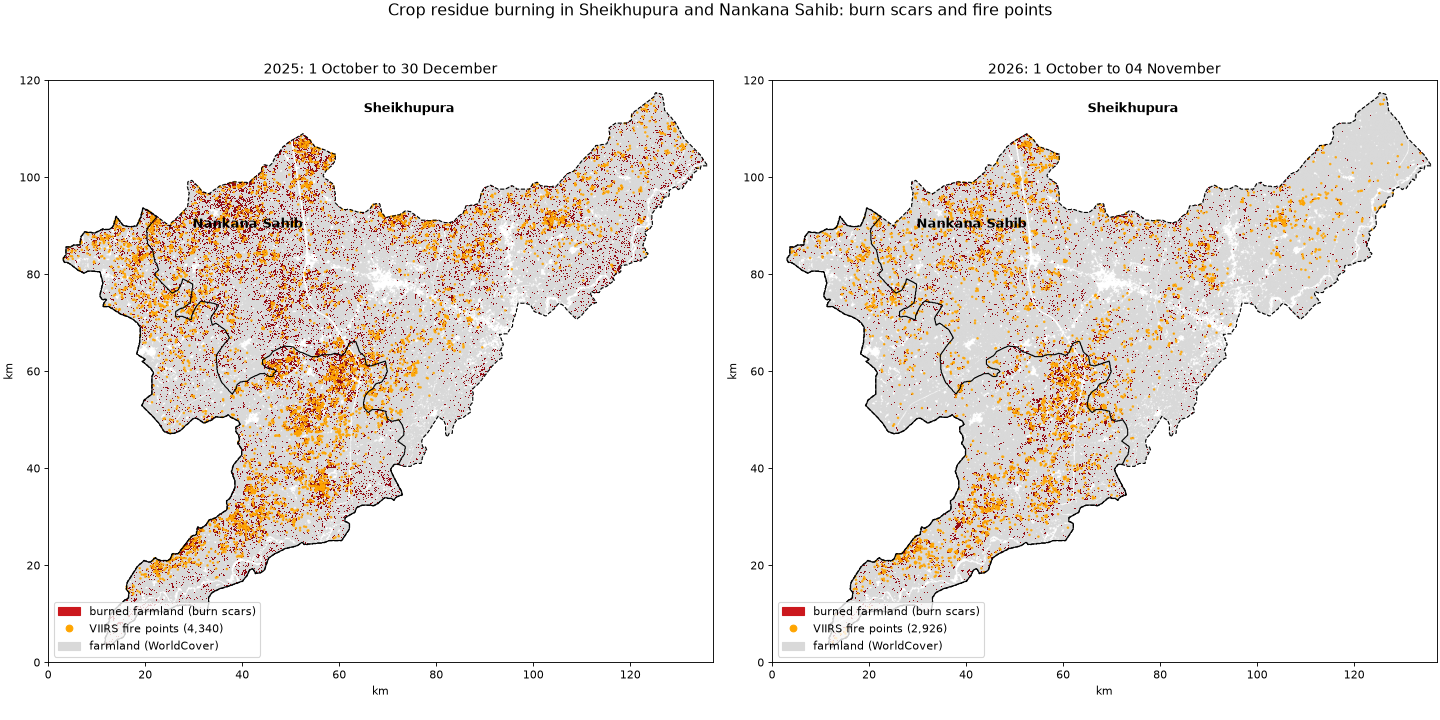
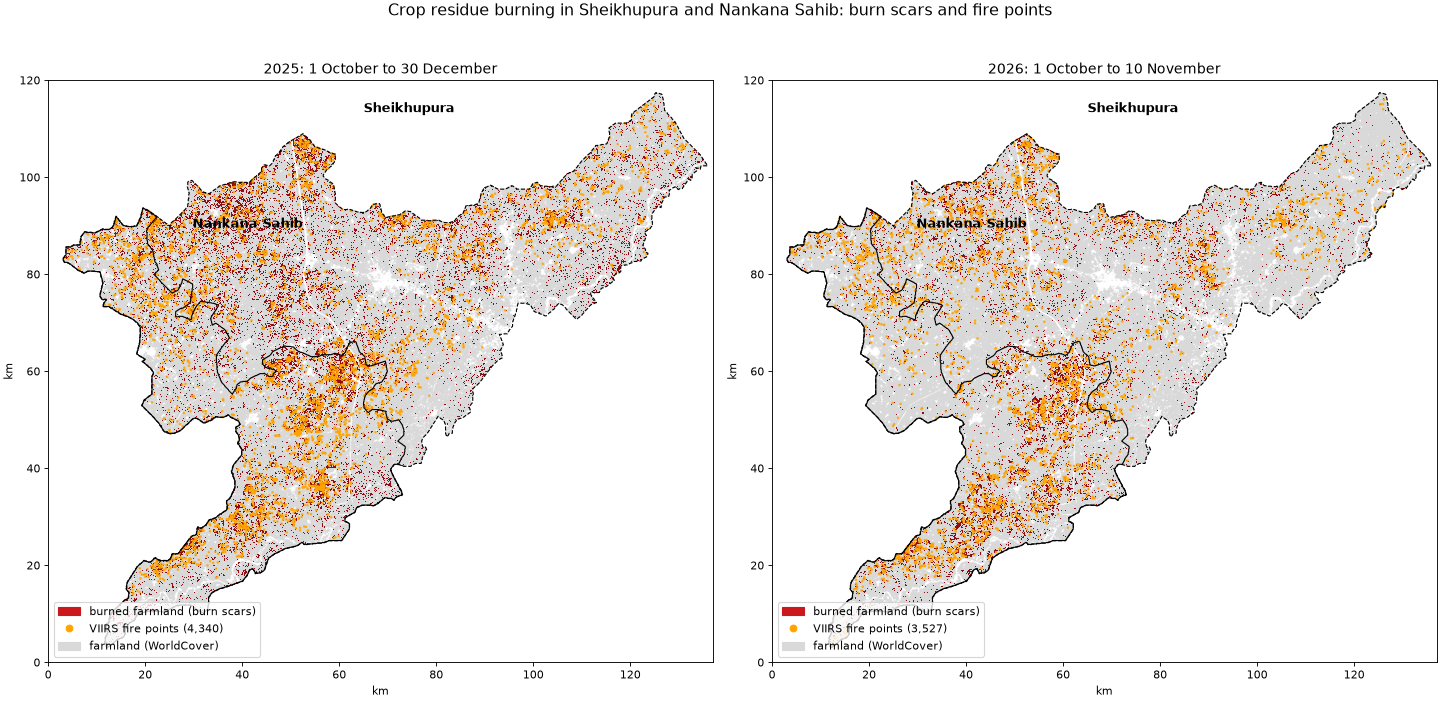
Update 2026 to 10 November; correct the 2 November smog figures and check them on the next clear image
- 2026 to 10 Nov: 10,107 ha of farmland burned, 16% less than 2025 by the same date; fire points peaked on 1 Nov.
- VIIRS missed 74% of burned farmland to 10 Nov (69% in 2025 by the same date).
- The 2 Nov "250 vs 4,388 ha" figures were for the whole image box, not the districts (70 vs 240 ha); corrected.
- On the clear 7 Nov image only 19% of the 2 Nov "possibly burned" area looked burned, so smog hid few burns.
- New CO record: 66.4 mmol/m2 over Nankana Sahib on 10 Nov, a quiet fire day.
- Sheikhupura's 2025 season share fixed (2.9%, not 3.0%).

diff --git a/README.md b/README.md
@@ -268,31 +268,39 @@ fire points missed. Then: does the smoke over a district rise and fall with its 
   burned pixel is spread evenly over the afternoons in its window. Sums over a week are close; single
   days are an estimate.
 
-| Farmland burned (burn scars) | 2025, 1-31 Oct | 2026, 1-31 Oct | 2026, 1 Oct-4 Nov | 2025, whole season |
-|---|---|---|---|---|
-| Sheikhupura | 3,897 ha (1.3%) | 3,207 ha (1.1%) | 3,383 ha (1.1%) | 8,783 ha (3.0%) |
-| Nankana Sahib | 2,288 ha (1.3%) | **3,415 ha (1.9%)** | 3,543 ha (2.0%) | 6,353 ha (3.6%) |
-| **Both districts** | **6,184 ha (1.3%)** | **6,622 ha (1.4%)** | **6,926 ha (1.5%)** | **15,137 ha (3.2%)** |
-| VIIRS fire points, both districts | 2,258 | 2,231 | 2,926 | 4,340 |
-| Burned farmland with a fire point on it | 1,826 of 6,134 ha | 1,780 of 6,606 ha | 1,861 of 6,910 ha | 4,013 of 15,086 ha |
-| **Missed by VIIRS** | **70%** (Sheikhupura 71%, Nankana Sahib 69%) | **73%** (75%, 72%) | **73%** (75%, 72%) | **73%** (78%, 67%) |
+| Farmland burned (burn scars) | 2025, 1-31 Oct | 2026, 1-31 Oct | 2025, 1 Oct-10 Nov | 2026, 1 Oct-10 Nov | 2025, whole season |
+|---|---|---|---|---|---|
+| Sheikhupura | 3,897 ha (1.3%) | 3,207 ha (1.1%) | 6,492 ha (2.2%) | 4,743 ha (1.6%) | 8,783 ha (2.9%) |
+| Nankana Sahib | 2,288 ha (1.3%) | **3,415 ha (1.9%)** | 5,492 ha (3.1%) | 5,364 ha (3.0%) | 6,353 ha (3.6%) |
+| **Both districts** | **6,184 ha (1.3%)** | **6,622 ha (1.4%)** | **11,984 ha (2.5%)** | **10,107 ha (2.1%)** | **15,137 ha (3.2%)** |
+| VIIRS fire points, both districts | 2,258 | 2,222 | 3,987 | 3,527 | 4,340 |
+| Burned farmland with a fire point on it | 1,826 of 6,134 ha | 1,779 of 6,606 ha | 3,657 of 11,933 ha | 2,620 of 10,091 ha | 4,013 of 15,086 ha |
+| **Missed by VIIRS** | **70%** (Sheikhupura 71%, Nankana Sahib 69%) | **73%** (75%, 72%) | **69%** (73%, 65%) | **74%** (76%, 72%) | **73%** (78%, 67%) |
 
 ([districts](runs/districts/districts.csv), [per day](runs/districts/districts_daily.csv),
 [per week](runs/districts/districts_weekly.csv). "Burned farmland with a fire point on it" counts
 farmland burned while VIIRS data covers it; a first version also counted burned land outside farmland,
 which moved each share by about one point.)
 
-- **Fire points saw about a quarter of the burned farmland**, in both districts and both years (67-78%
+- **Fire points saw about a quarter of the burned farmland**, in both districts and both years (65-78%
   missed). Step 2's result from the box (82%) holds over the two whole districts.
 - **October 2026 burned about as much as October 2025** (+7%), but the burning moved: Nankana Sahib
   burned half as much again (+49%), Sheikhupura 18% less.
-- **Most of 2026 is still to come.** By 31 October 2025 only 41% of that season's burned farmland had
-  been seen; by 15 November, 90%. By 4 November 2026, 6,926 ha had burned, against 6,687 ha by the same
-  date in 2025.
-- **Smog hides burn scars too.** On 2 November 2026, the day after the season's busiest fire day,
-  Sentinel-2 flagged only 250 ha as burned but 4,388 ha as possibly burned. Thick smoke over the
-  fields probably blurs the dark char signal and pushes burns into the uncertain class; the next clear
-  image will tell. The latest days are always undercounted until a clear look shows the scars.
+- **2026 has fallen behind 2025.** It was ahead until 4 November (6,926 ha against 6,687), but by
+  10 November it had burned 10,107 ha against 11,984 by the same date in 2025 (16% less). In 2025 the
+  burning surged from 5 November, the busiest fire day of that season (296 fire points). In 2026 fire
+  points peaked earlier, on 1 November (270), and have fallen since (74-77 a day on 9-10 November).
+  Either 2026 peaked earlier, or the burning is still to come; 10 November was only 49% clear, so
+  the next images will tell. In 2025, 79% of the season's burned farmland had been seen by 10 November.
+- **Smog on 2 November made the uncertain class grow, but it hid few burns.** On 2 November 2026, the
+  day after the busiest fire day, Sentinel-2 flagged 250 ha as burned and 4,388 ha as possibly burned
+  over the whole image box, and 70 and 240 ha in the two districts' farmland. (Last week's version of
+  this README gave the box numbers as if they were the districts'.) The next image clear over those
+  fields, 7 November, shows that most were not burns: 19% of the "possibly burned" area looked burned
+  (dark in near infrared, low NBR), against 72% of the area flagged burned that day and 4% of land never
+  flagged; in district farmland, 6%, 71% and 3%. Smoke seems to push ordinary harvested fields into the
+  uncertain class more than it hides burns. (A pixel once flagged "possibly burned" is never checked
+  again, so the few real burns among them stay uncounted.)
 - **"Possibly burned" doubled in 2026** (13,346 ha against 6,605), much of it on 21 October. That
   class is uncertain (step 2: fire points missed 95% of it, step 3: barely tied to rice), and haze
   may play a part, so it is not read as more burning.
@@ -305,18 +313,18 @@ least certain. Grouping touching burned pixels into patches:
 | Patch size | Share of burned farmland, 2025 / 2026 | Missed by VIIRS, 2025 / 2026 |
 |---|---|---|
 | 1 pixel (0.04 ha) | 6% / 6% | 91% / 89% |
-| 2-8 pixels (0.08-0.32 ha) | 20% / 19% | 89% / 86% |
-| 9-24 pixels (0.36-0.96 ha) | 16% / 18% | 84% / 82% |
-| 25-99 pixels (1-4 ha) | 26% / 27% | 75% / 74% |
-| 100 pixels or more (4 ha and up) | 32% / 30% | 53% / 55% |
-| **9 pixels or more (0.36 ha and up)** | **74% / 75%** | **68% / 68%** |
+| 2-8 pixels (0.08-0.32 ha) | 20% / 19% | 89% / 87% |
+| 9-24 pixels (0.36-0.96 ha) | 16% / 17% | 84% / 83% |
+| 25-99 pixels (1-4 ha) | 26% / 27% | 75% / 75% |
+| 100 pixels or more (4 ha and up) | 32% / 32% | 53% / 59% |
+| **9 pixels or more (0.36 ha and up)** | **74% / 76%** | **68% / 70%** |
 
-([patches](runs/districts/districts_patches.csv); 2025 whole season, 2026 to 4 November)
+([patches](runs/districts/districts_patches.csv); 2025 whole season, 2026 to 10 November)
 
 - **A quarter of the burned farmland is in patches under 0.36 ha**, and VIIRS misses nearly 90% of
-  those. Leaving them all out, it still misses **68%**: the result is not carried by small, noisy
+  those. Leaving them all out, it still misses **68-70%**: the result is not carried by small, noisy
   patches.
-- **Even big burns are missed half the time**: patches of 4 ha and more had no fire point on 53-55%
+- **Even big burns are missed half the time**: patches of 4 ha and more had no fire point on 53-59%
   of their area. A VIIRS fire point needs the field alight during a pass, whatever its size.
 
 ![Burn scars and fire points in the two districts](runs/districts/districts_map.png)
@@ -334,14 +342,16 @@ retrieval flags as invalid or outlier: its monthly median *falls* from October t
 measurements, averaged over each district:
 
 - **UV aerosol index**: particles that absorb ultraviolet light, which smoke does, but so does dust.
-  Values on 86 of 91 days in 2025 and on all 35 days of 2026 so far (to 4 November).
+  Values on 86 of 91 days in 2025 and on 40 of 41 days of 2026 so far (to 10 November).
 - **Carbon monoxide (CO) column**: a gas burning gives off. It lasts for weeks, so it builds up over
-  the whole region rather than marking single fires. Values on 70-71 days in 2025 and 31-32 of 35 in
+  the whole region rather than marking single fires. Values on 70-71 days in 2025 and 36-37 of 41 in
   2026.
 
-**2026 has already passed 2025's smokiest day**: CO over Nankana Sahib reached 60.3 mmol/m² on
-2 November 2026 (2025's highest day: 58.8, on 29 October), with 56-57 over both districts on 1, 2
-and 5 November.
+**2026 has passed 2025's smokiest day twice**: CO over Nankana Sahib reached 60.3 mmol/m² on
+2 November 2026 and **66.4 on 10 November** (58.6 over Sheikhupura); 2025's highest day was 58.8, on
+29 October. 10 November was a quiet fire day (74 fire points in the two districts, against 270 on
+1 November), and its CO comes from fewer clear pixels than usual: one more sign that the day's smoke is
+not set by the day's local burning.
 
 | Week from (2025) | Farmland burned | Fire points | Aerosol index | CO (mmol/m²) |
 |---|---|---|---|---|
@@ -358,12 +368,12 @@ and 5 November.
 
 Spearman correlation of each day's smoke with that day's fire points, per district:
 
-| | 2025 Sheikhupura | 2025 Nankana Sahib | 2026 Sheikhupura, to 4 Nov | 2026 Nankana Sahib, to 4 Nov |
+| | 2025 Sheikhupura | 2025 Nankana Sahib | 2026 Sheikhupura, to 10 Nov | 2026 Nankana Sahib, to 10 Nov |
 |---|---|---|---|---|
-| CO, day by day | 0.33 | 0.45 | 0.45 | 0.69 |
-| CO, seasonal trend taken out | 0.04 | -0.09 | 0.25 | -0.01 |
-| Aerosol index, day by day | 0.13 | 0.26 | 0.09 | -0.02 |
-| Aerosol index, seasonal trend taken out | -0.25 | -0.20 | -0.02 | -0.20 |
+| CO, day by day | 0.33 | 0.45 | 0.40 | 0.63 |
+| CO, seasonal trend taken out | 0.04 | -0.09 | 0.16 | -0.15 |
+| Aerosol index, day by day | 0.13 | 0.26 | 0.06 | -0.02 |
+| Aerosol index, seasonal trend taken out | -0.25 | -0.20 | -0.03 | -0.35 |
 
 ("Seasonal trend taken out": each series minus its 15-day running median, so the question becomes "more
 fire than usual for the time of season, more smoke than usual?". [All correlations, with p-values and
@@ -372,9 +382,9 @@ later.)
 
 - **CO follows the season.** In 2025 it rose with the burning and peaked in the same week (49.3 in the
   week from 29 October, the week with the most burned farmland), and the correlation day by day is
-  clear (0.33-0.69).
+  clear (0.33-0.63).
 - **Day to day, local fires do not explain the smoke.** With the seasonal build-up taken out, the CO
-  correlation is close to zero in three of the four cases. CO dropped to 38.6 the week after the
+  correlation is small and not significant in all four cases (r from -0.15 to 0.16, p 0.35 or more). CO dropped to 38.6 the week after the
   peak, while 2,662 ha still burned, and rose again to 45.8 in the week from 19 November, when the two
   districts had only 19 fire points. Which day is smoky is set by something else: wind bringing smoke
   from elsewhere (burning in Indian Punjab peaks in mid November), or still air and inversions
@@ -394,7 +404,7 @@ later.)
 - [x] Step 3: rice fields from Sentinel-1 radar; which burns are on rice
 - [x] Step 4: the whole season against 2025, per tehsil (2026 is updated as the season goes on)
 - [x] Step 5: the whole of Sheikhupura and Nankana Sahib districts: fire points against burn scars,
-  and smoke from Sentinel-5P (wind is still open)
+  and smoke from Sentinel-5P (weather not analysed)
 - [ ] Step 6: a field check in the rice belt; README, poster, v1.0
 
 ## Data and credits
